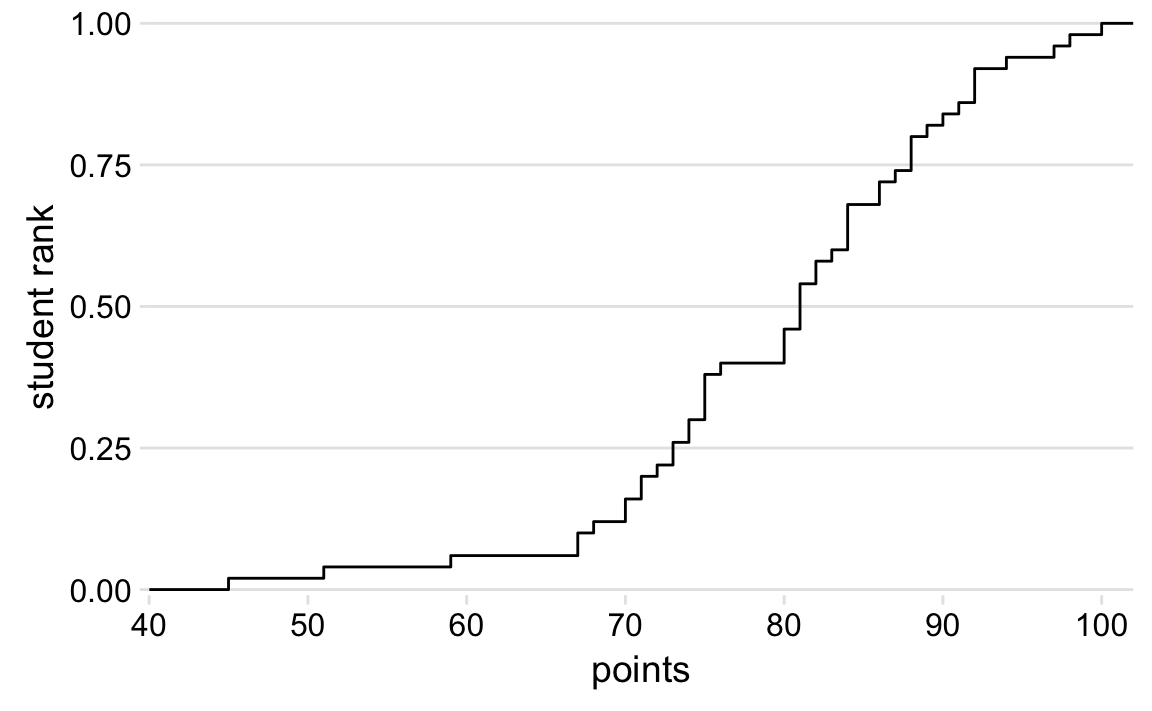
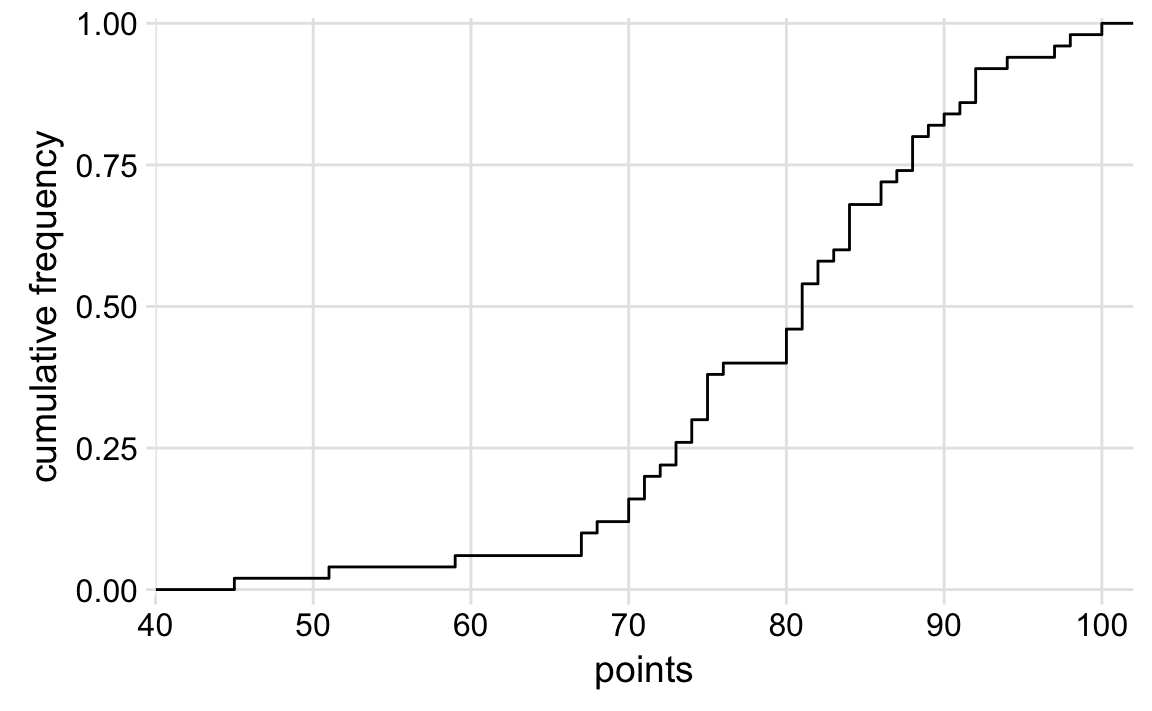
more text about ecdfs and qqplots

diff --git a/docs/visualizing-distributions-cumulative-density-functions-and-q-q-plots.html b/docs/visualizing-distributions-cumulative-density-functions-and-q-q-plots.html
@@ -140,17 +140,28 @@
 <p><em>intro text</em></p>
 <div id="empirical-density-functions" class="section level2">
 <h2><span class="header-section-number">11.1</span> Empirical density functions</h2>
+<p>We can rank all students by the number of points they obtained, in ascending order (so the student with the fewest points receives the lowest rank and the student with the most points the highest), and then plot the rank versus the actual points obtained.</p>
 <p><img src="visualizing_distributions_II_files/figure-html/student-grades-1.png" width="576" style="display: block; margin: auto;" /></p>
+<p>The result is an <em>empirical cumulative distribution function</em> (ecdf) or simply <em>cumulative distribution.</em> Each dot represents one student, and the lines visualize the highest student rank observed for any possible point value.</p>
+<p>Alternatively, we can also rank students in descending order. This ranking simply flips the function on its head. The result is still an empirical cumulative distribution function, but the lines now represent the lowest student rank observed for any possible point value.</p>
+<p><img src="visualizing_distributions_II_files/figure-html/student-grades-desc-1.png" width="576" style="display: block; margin: auto;" /></p>
+<p>Ascending cumulative distribution functions are more widely known and more commonly used than descending ones, but both have important applications. Descending cumulative distribution functions are critical when we want to visualize highly skewed distributions (see below).</p>
+<p>In practical applications, it is quite common to draw the ecdf without highlighting the individual points, and to normalize the ranks by the maximum rank, so that the <em>y</em> axis represents the cumulative frequency. For the student grades example, these modifications yield the following plot.</p>
 <p><img src="visualizing_distributions_II_files/figure-html/student-grades-normalized-1.png" width="576" style="display: block; margin: auto;" /></p>
+<p>We can directly read off key properties of the student grade distribution from this plot. For example, a quarter of the students (25%) received less than 75 points. The median point value is 81. Approximately 20% of the students received 90 points or more.</p>
 </div>
 <div id="highly-skewed-distributions" class="section level2">
 <h2><span class="header-section-number">11.2</span> Highly skewed distributions</h2>
-<p><img src="visualizing_distributions_II_files/figure-html/county-populations-1.png" width="576" style="display: block; margin: auto;" /><img src="visualizing_distributions_II_files/figure-html/county-populations-2.png" width="576" style="display: block; margin: auto;" /></p>
+<p><img src="visualizing_distributions_II_files/figure-html/county-populations-1.png" width="576" style="display: block; margin: auto;" /></p>
+<p><img src="visualizing_distributions_II_files/figure-html/county-populations-log-1.png" width="576" style="display: block; margin: auto;" /></p>
 <p><img src="visualizing_distributions_II_files/figure-html/county-populations-tail-log-log-1.png" width="576" style="display: block; margin: auto;" /></p>
 <p><img src="visualizing_distributions_II_files/figure-html/word-counts-tail-log-log-1.png" width="576" style="display: block; margin: auto;" /></p>
 </div>
 <div id="quantilequantile-plots" class="section level2">
 <h2><span class="header-section-number">11.3</span> Quantile–quantile plots</h2>
+<p><img src="visualizing_distributions_II_files/figure-html/student-grades-qq-1.png" width="576" style="display: block; margin: auto;" /></p>
+<p><img src="visualizing_distributions_II_files/figure-html/county-populations-qq-1.png" width="576" style="display: block; margin: auto;" /></p>
+<p>The agreement between the observed and the theoretical values is exceptional. This demonstrates that the distribution of population counts among counties is indeed log-normal, as I suggested earlier in this chapter. <em>Give brief explanation for why. Random, multiplicative growth.</em></p>
 
 </div>
 </div>

diff --git a/docs/visualizing_distributions_II.md b/docs/visualizing_distributions_II.md
@@ -8,16 +8,41 @@
 
 ## Empirical density functions
 
+We can rank all students by the number of points they obtained, in ascending order (so the student with the fewest points receives the lowest rank and the student with the most points the highest), and then plot the rank versus the actual points obtained.
+
 <img src="visualizing_distributions_II_files/figure-html/student-grades-1.png" width="576" style="display: block; margin: auto;" />
+
+The result is an *empirical cumulative distribution function* (ecdf) or simply *cumulative distribution.* Each dot represents one student, and the lines visualize the highest student rank observed for any possible point value.
+
+Alternatively, we can also rank students in descending order. This ranking simply flips the function on its head. The result is still an empirical cumulative distribution function, but the lines now represent the lowest student rank observed for any possible point value. 
+
+<img src="visualizing_distributions_II_files/figure-html/student-grades-desc-1.png" width="576" style="display: block; margin: auto;" />
+
+Ascending cumulative distribution functions are more widely known and more commonly used than descending ones, but both have important applications. Descending cumulative distribution functions are critical when we want to visualize highly skewed distributions (see below).
+
+In practical applications, it is quite common to draw the ecdf without highlighting the individual points, and to normalize the ranks by the maximum rank, so that the *y* axis represents the cumulative frequency. For the student grades example, these modifications yield the following plot.
 
 
 <img src="visualizing_distributions_II_files/figure-html/student-grades-normalized-1.png" width="576" style="display: block; margin: auto;" />
 
+We can directly read off key properties of the student grade distribution from this plot. For example, a quarter of the students (25%) received less than 75 points. The median point value is 81. Approximately 20% of the students received 90 points or more.
+
 ## Highly skewed distributions
-<img src="visualizing_distributions_II_files/figure-html/county-populations-1.png" width="576" style="display: block; margin: auto;" /><img src="visualizing_distributions_II_files/figure-html/county-populations-2.png" width="576" style="display: block; margin: auto;" />
+
+
+<img src="visualizing_distributions_II_files/figure-html/county-populations-1.png" width="576" style="display: block; margin: auto;" />
+
+<img src="visualizing_distributions_II_files/figure-html/county-populations-log-1.png" width="576" style="display: block; margin: auto;" />
 
 <img src="visualizing_distributions_II_files/figure-html/county-populations-tail-log-log-1.png" width="576" style="display: block; margin: auto;" />
 
 <img src="visualizing_distributions_II_files/figure-html/word-counts-tail-log-log-1.png" width="576" style="display: block; margin: auto;" />
 
 ## Quantile--quantile plots
+
+
+<img src="visualizing_distributions_II_files/figure-html/student-grades-qq-1.png" width="576" style="display: block; margin: auto;" />
+
+<img src="visualizing_distributions_II_files/figure-html/county-populations-qq-1.png" width="576" style="display: block; margin: auto;" />
+
+The agreement between the observed and the theoretical values is exceptional. This demonstrates that the distribution of population counts among counties is indeed log-normal, as I suggested earlier in this chapter. *Give brief explanation for why. Random, multiplicative growth.*
